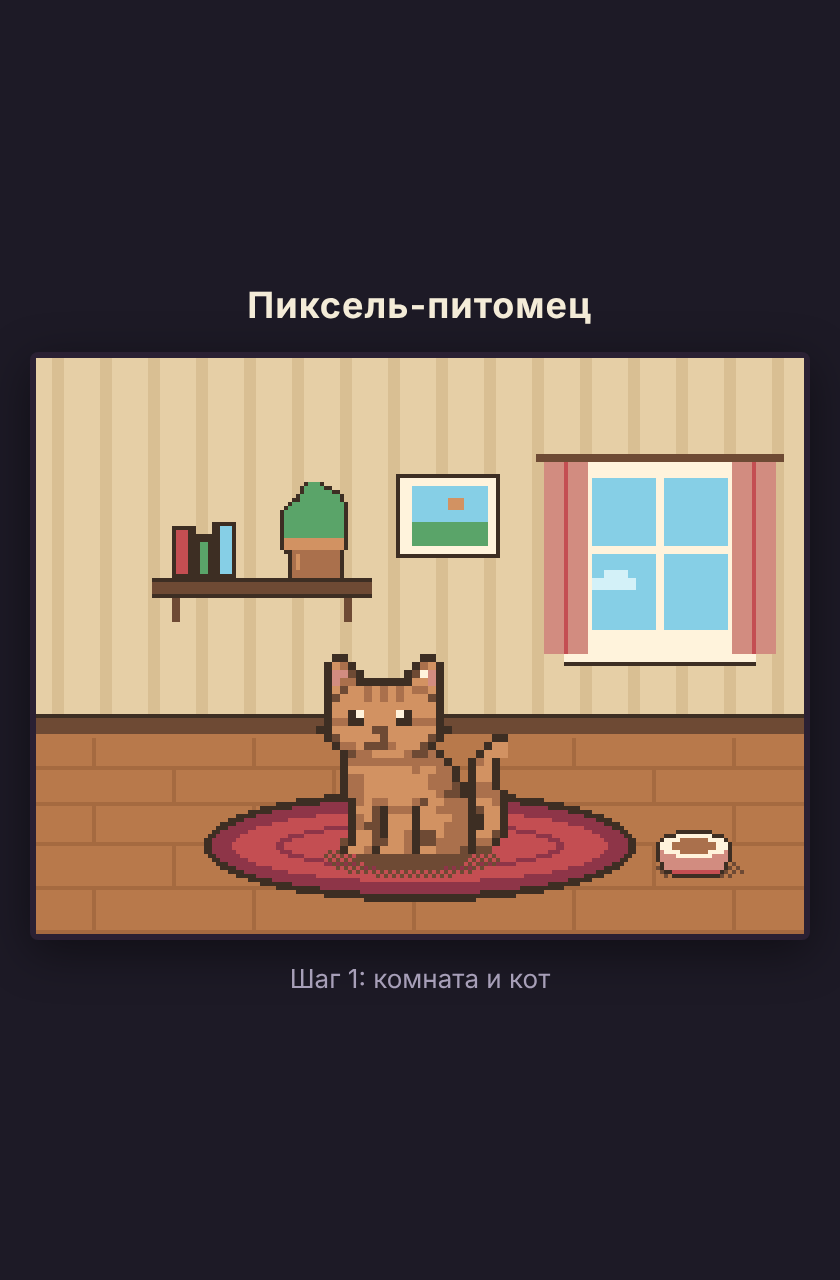
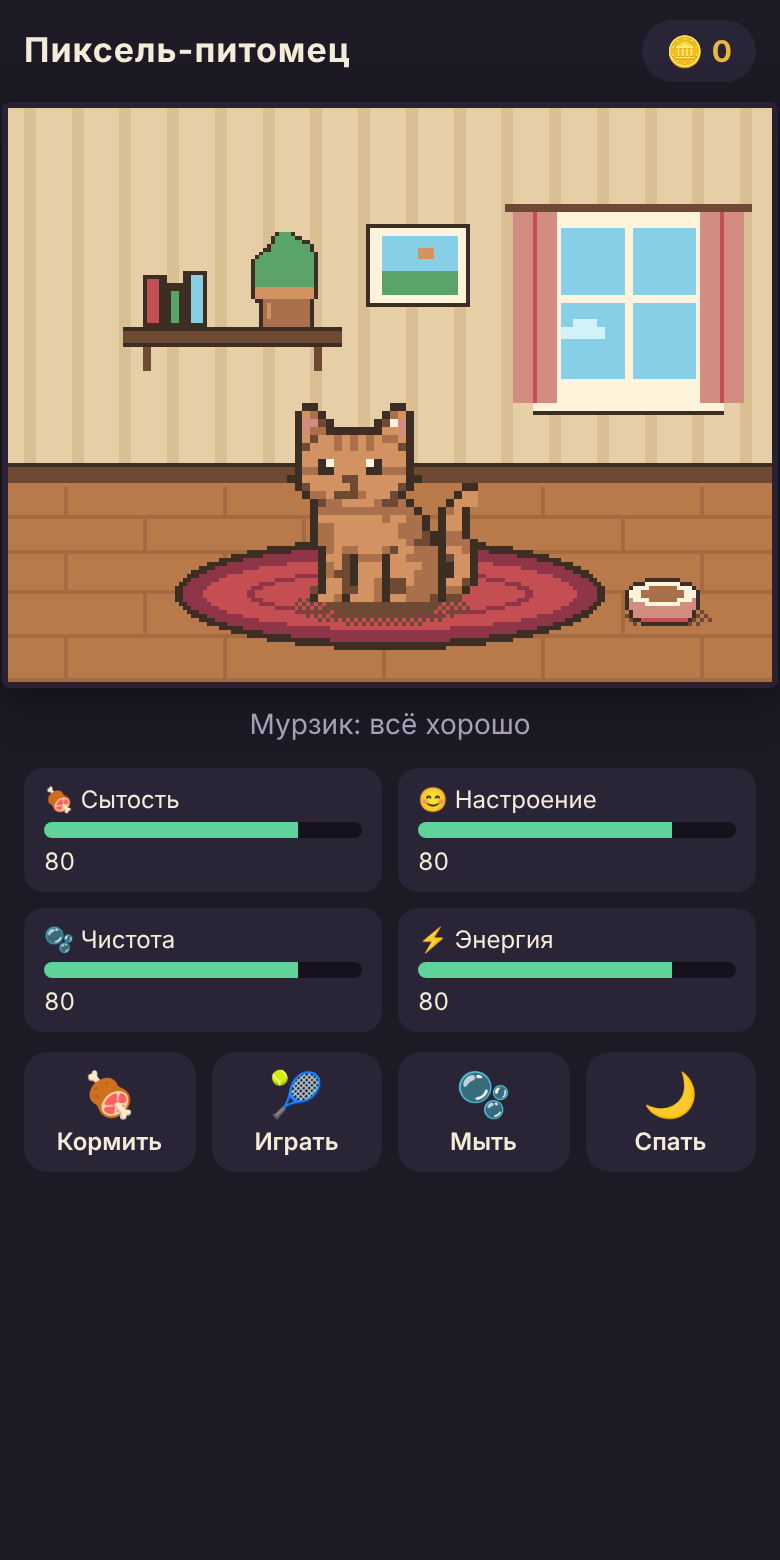
Пиксель-питомец: шаг 2 — потребности, действия, монеты, грусть, сон, сохранение
Claude-Session: https://claude.ai/code/session_01Qao8M8JoHe6UePoZCqr7mk

diff --git a/pixel-pet/js/pet.js b/pixel-pet/js/pet.js
@@ -1,20 +1,147 @@
-// Питомец. Шаг 1: только внешний вид и анимации (потребности — на шаге 2).
+// Питомец: данные (отдельным объектом — их потом можно хранить на сервере),
+// потребности, действия, анимации и эффекты.
 (function () {
+  const HOUR = 3600e3;
+  // изменение параметров в час
+  const AWAKE = { food: -8, mood: -6, clean: -4, energy: -5 };
+  const SLEEP = { food: -3, mood: -1, clean: -1, energy: 30 };
+  const MAX_AWAY = 24 * HOUR;                     // дольше суток вдали не считаем
+  const clamp = v => Math.max(0, Math.min(100, v));
+
+  function defaults(now) {
+    return { v: 1, type: 'cat', name: 'Мурзик', coins: 0, sleeping: false, sleepFrom: 0,
+             stats: { food: 80, mood: 80, clean: 80, energy: 80 }, savedAt: now };
+  }
+
   const Pet = {
-    type: 'cat', name: 'Мурзик',
-    x: 68, y: 74, // левый верхний угол спрайта 52×52; лапы на y+41
-    // Анимационные параметры по времени (мс)
+    data: null, events: [],
+    x: 68, y: 74,                                  // левый верхний угол спрайта
+    fx: { jumpAt: -1000, parts: [], fade: 0 },
+
+    // ---------- данные ----------
+    load(raw, now) {
+      const d = defaults(now);
+      try {
+        const o = typeof raw === 'string' ? JSON.parse(raw) : raw;
+        if (o && o.v === 1) {
+          ['food', 'mood', 'clean', 'energy'].forEach(k => {
+            if (o.stats && isFinite(o.stats[k])) d.stats[k] = clamp(+o.stats[k]);
+          });
+          if (isFinite(o.coins)) d.coins = Math.max(0, Math.floor(o.coins));
+          d.sleeping = !!o.sleeping; d.sleepFrom = isFinite(o.sleepFrom) ? +o.sleepFrom : d.stats.energy;
+          if (typeof o.name === 'string') d.name = o.name.slice(0, 20);
+          if (isFinite(o.savedAt)) d.savedAt = Math.min(+o.savedAt, now);
+        }
+      } catch (e) {}
+      this.data = d;
+      const away = Math.min(now - d.savedAt, MAX_AWAY);
+      if (away > 60e3) this.advance(away, true);  // время, пока приложение было закрыто
+      d.savedAt = now;
+      return this;
+    },
+    serialize(now) { this.data.savedAt = now; return JSON.stringify(this.data); },
+
+    // ---------- время ----------
+    advance(ms, offline) {
+      const d = this.data, s = d.stats;
+      let h = ms / HOUR;
+      const apply = (rate, t) => { for (const k in rate) s[k] = clamp(s[k] + rate[k] * t); };
+      if (d.sleeping) {
+        const need = (100 - s.energy) / SLEEP.energy, t = Math.min(h, need);
+        apply(SLEEP, t); h -= t;
+        if (s.energy >= 99.99) this.wake(offline ? 'Пока тебя не было, ' + d.name + ' выспался' : 'Выспался');
+      }
+      if (!d.sleeping && h > 0) apply(AWAKE, h);
+    },
+    wake(msg) {
+      const d = this.data, gain = Math.floor((d.stats.energy - d.sleepFrom) / 10);
+      d.sleeping = false; d.coins += gain;
+      this.events.push({ msg: (msg || 'Проснулся') + (gain > 0 ? ' · +' + gain + ' 🪙' : ''), kind: 'ok' });
+    },
+
+    // ---------- состояние ----------
+    sad() { const s = this.data.stats; return !this.data.sleeping && (s.food < 25 || s.mood < 25); },
+    status() {
+      const d = this.data, s = d.stats;
+      if (d.sleeping) return d.name + ' спит 💤';
+      if (s.food < 25) return d.name + ' голодный 😿';
+      if (s.mood < 25) return d.name + ' скучает 😿';
+      if (s.energy < 20) return d.name + ' устал';
+      if (s.clean < 25) return d.name + ' грязный';
+      return d.name + ': всё хорошо';
+    },
+
+    // ---------- действия ----------
+    act(name, now) {
+      const d = this.data, s = d.stats, T = performance.now();
+      const fail = msg => ({ ok: false, msg });
+      if (name === 'sleep') {
+        if (d.sleeping) { this.wake('Проснулся'); return { ok: true, msg: this.events.pop().msg }; }
+        if (s.energy >= 95) return fail(d.name + ' не хочет спать');
+        d.sleeping = true; d.sleepFrom = s.energy;
+        return { ok: true, msg: d.name + ' засыпает… 🌙' };
+      }
+      if (d.sleeping) return fail('Он спит. Нажми «Будить»');
+      let coins = 0, msg = '';
+      if (name === 'feed') {
+        if (s.food >= 95) return fail(d.name + ' сыт');
+        coins = 2; s.food = clamp(s.food + 30); s.clean = clamp(s.clean - 3); msg = 'Ням-ням! 🍖';
+        for (let i = 0; i < 6; i++) this.fx.parts.push({ type: 'crumb', x: 158 + Math.random() * 14, y: 100 + Math.random() * 6, vx: 0, vy: 0.04, t0: T + i * 70, life: 480 });
+      } else if (name === 'play') {
+        if (s.energy < 10) return fail('Он слишком устал. Пусть поспит');
+        coins = 3; s.mood = clamp(s.mood + 25); s.energy = clamp(s.energy - 12);
+        s.food = clamp(s.food - 6); s.clean = clamp(s.clean - 4); msg = 'Весёлая игра! 🎾';
+        this.fx.jumpAt = T;
+        for (let i = 0; i < 4; i++) this.fx.parts.push({ type: 'heart', x: this.x + 12 + i * 8, y: this.y + 2, vx: 0, vy: -0.02, t0: T + i * 180, life: 900 });
+      } else if (name === 'wash') {
+        if (s.clean >= 95) return fail(d.name + ' уже чистый');
+        coins = 2; s.clean = clamp(s.clean + 40); s.mood = clamp(s.mood - 2); msg = 'Чистый и пушистый! 🫧';
+        for (let i = 0; i < 9; i++) this.fx.parts.push({ type: 'bubble', x: this.x + 6 + Math.random() * 34, y: this.y + 20 + Math.random() * 26, vx: 0, vy: -0.015, t0: T + i * 90, life: 800 });
+      } else return fail('Неизвестное действие');
+      d.coins += coins;
+      return { ok: true, msg: msg + ' · +' + coins + ' 🪙' };
+    },
+
+    // ---------- анимации ----------
     anim(t) {
-      return {
-        breath: Math.floor(t / 1200) % 2 === 1,          // покачивание на 1 пиксель
-        blink: (t % 3600) > 3400,                        // моргание раз в ~3.6 с
-        tail: Math.round(Math.sin(t / 450) * 2)          // хвост: -2…2 пикселя
-      };
+      const d = this.data;
+      const breath = Math.floor(t / 1200) % 2;
+      const blink = (t % 3600) > 3400;
+      if (d.sleeping) return { head: 2 + breath, eyes: 'closed', tail: 0 };
+      if (this.sad()) return { head: 1 + breath, eyes: 'sad', tail: 0 };
+      return { head: breath, eyes: blink ? 'closed' : 'open', tail: Math.round(Math.sin(t / 450) * 2) };
     },
     draw(ctx, t) {
-      const a = this.anim(t);
-      window.Sprites.shadow(ctx, this.x + 26, this.y + 51, 22, 5);
-      ctx.drawImage(window.Sprites.cat(a), this.x, this.y);
+      const a = this.anim(t), f = this.fx, S = window.Sprites;
+      // прыжок при игре: два подскока
+      const jp = (t - f.jumpAt) / 900;
+      const hop = jp >= 0 && jp < 1 ? Math.round(Math.abs(Math.sin(jp * Math.PI * 2)) * 10) : 0;
+      S.shadow(ctx, this.x + 26, this.y + 51, 22 - hop * 0.6, 5 - hop * 0.2);
+      ctx.drawImage(S.cat(a), this.x, this.y - hop);
+    },
+    drawFx(ctx, t) {
+      const S = window.Sprites, f = this.fx;
+      f.parts = f.parts.filter(p => t - p.t0 < p.life);
+      f.parts.forEach(p => {
+        const age = t - p.t0; if (age < 0) return;
+        const x = Math.round(p.x + p.vx * age), y = Math.round(p.y + p.vy * age);
+        if (p.type === 'crumb') { ctx.fillStyle = S.PAL.orangeDark; ctx.fillRect(x, y, 2, 2); }
+        else ctx.drawImage(p.type === 'heart' ? S.heart() : S.bubble(), x, y);
+      });
+    },
+    // затемнение и Zzz для сна
+    drawSleep(ctx, t, W, H) {
+      const f = this.fx, target = this.data.sleeping ? 1 : 0;
+      f.fade += (target - f.fade) * 0.06;
+      if (f.fade < 0.01) return;
+      ctx.fillStyle = 'rgba(14,10,46,' + (0.5 * f.fade).toFixed(3) + ')';
+      ctx.fillRect(0, 0, W, H);
+      if (!this.data.sleeping) return;
+      const S = window.Sprites, ph = (t / 1400) % 1, bx = this.x + 36, by = this.y + 4;
+      [[0, 1], [0.33, 2], [0.66, 2]].forEach(([off, k], i) => {
+        const p = (ph + off) % 1;
+        S.zed(ctx, Math.round(bx + i * 6 + p * 6), Math.round(by - p * 22 - i * 2), k);
+      });
     }
   };
   window.Pet = Pet;

diff --git a/pixel-pet/js/main.js b/pixel-pet/js/main.js
@@ -1,31 +1,78 @@
 (function () {
-  const canvas = document.getElementById('scene');
-  const ctx = canvas.getContext('2d');
+  const $ = id => document.getElementById(id);
+  const canvas = $('scene'), ctx = canvas.getContext('2d');
   ctx.imageSmoothingEnabled = false;
+  const KEY = 'pixelpet.v1';
 
-  // Telegram: готовность, полный экран, цвета темы (если есть)
+  // ---------- Telegram ----------
+  let tg = null;
   try {
-    const tg = window.Telegram && window.Telegram.WebApp;
+    tg = window.Telegram && window.Telegram.WebApp;
     if (tg) {
       tg.ready(); tg.expand();
-      const p = tg.themeParams || {}, s = document.documentElement.style;
-      if (p.bg_color) s.setProperty('--bg', p.bg_color);
-      if (p.text_color) s.setProperty('--text', p.text_color);
-      if (p.hint_color) s.setProperty('--hint', p.hint_color);
+      const p = tg.themeParams || {}, st = document.documentElement.style;
+      if (p.bg_color) st.setProperty('--bg', p.bg_color);
+      if (p.text_color) st.setProperty('--text', p.text_color);
+      if (p.hint_color) st.setProperty('--hint', p.hint_color);
     }
-  } catch (e) {}
+  } catch (e) { tg = null; }
+  const haptic = kind => { try { tg && tg.HapticFeedback && (kind === 'light' ? tg.HapticFeedback.impactOccurred('light') : tg.HapticFeedback.notificationOccurred(kind)); } catch (e) {} };
 
-  // Целочисленный масштаб, чтобы пиксели были чёткими
+  // ---------- сохранение ----------
+  function save() { try { localStorage.setItem(KEY, Pet.serialize(Date.now())); } catch (e) {} }
+  let raw = null; try { raw = localStorage.getItem(KEY); } catch (e) {}
+  Pet.load(raw, Date.now());
+
+  // ---------- масштаб: целый, если места хватает ----------
   function fit() {
-    const k = Math.max(1, Math.floor(Math.min((innerWidth - 30) / Room.W, (innerHeight - 120) / Room.H)));
-    canvas.style.width = Room.W * k + 'px'; canvas.style.height = Room.H * k + 'px';
+    const availW = innerWidth - 8, availH = innerHeight - 330;
+    let k = Math.min(availW / Room.W, availH / Room.H);
+    k = k >= 2 ? Math.floor(k) : Math.max(1, k);
+    canvas.style.width = Math.round(Room.W * k) + 'px'; canvas.style.height = Math.round(Room.H * k) + 'px';
   }
   addEventListener('resize', fit); fit();
 
+  // ---------- интерфейс ----------
+  const bars = { food: $('b-food'), mood: $('b-mood'), clean: $('b-clean'), energy: $('b-energy') };
+  const vals = { food: $('v-food'), mood: $('v-mood'), clean: $('v-clean'), energy: $('v-energy') };
+  let toastT = 0;
+  function toast(msg, bad) {
+    const el = $('toast'); el.textContent = msg; el.className = 'toast show' + (bad ? ' bad' : '');
+    clearTimeout(toastT); toastT = setTimeout(() => { el.className = 'toast'; }, 2200);
+  }
+  function refresh() {
+    const d = Pet.data;
+    for (const k in bars) {
+      const v = Math.round(d.stats[k]);
+      bars[k].style.width = v + '%'; vals[k].textContent = v;
+      bars[k].parentNode.classList.toggle('low', v < 25);
+      vals[k].textContent = v + (v < 25 ? ' ▼' : '');
+    }
+    $('coins').textContent = d.coins;
+    $('status').textContent = Pet.status();
+    $('btn-sleep').querySelector('b').textContent = d.sleeping ? 'Будить' : 'Спать';
+  }
+  document.querySelectorAll('[data-act]').forEach(btn => btn.addEventListener('click', () => {
+    const r = Pet.act(btn.dataset.act, Date.now());
+    toast(r.msg, !r.ok); haptic(r.ok ? 'light' : 'error');
+    refresh(); save();
+  }));
+
+  // ---------- цикл ----------
+  let last = performance.now(), acc = 0, lastSave = 0;
   function frame(t) {
+    const dt = Math.min(t - last, 5000); last = t; acc += dt;
+    if (acc >= 1000) { Pet.advance(acc, false); acc = 0; refresh(); }
+    Pet.events.splice(0).forEach(e => { toast(e.msg, e.kind === 'bad'); haptic('success'); });
     Room.draw(ctx, t);
     Pet.draw(ctx, t);
+    Pet.drawFx(ctx, t);
+    Pet.drawSleep(ctx, t, Room.W, Room.H);
+    if (t - lastSave > 5000) { lastSave = t; save(); }
     requestAnimationFrame(frame);
   }
-  requestAnimationFrame(frame);
+  document.addEventListener('visibilitychange', () => { if (document.hidden) save(); });
+  addEventListener('pagehide', save);
+  Pet.events.splice(0).forEach(e => toast(e.msg));   // например «пока тебя не было…»
+  refresh(); requestAnimationFrame(frame);
 })();

diff --git a/pixel-pet/js/sprites.js b/pixel-pet/js/sprites.js
@@ -95,33 +95,56 @@
     '...dKooddoomKddmmmmKmmK.',
     '...KoomKooomKoommmdKdd..'
   ];
-  const CAT_COL = { K: 'ink', d: 'wood', m: 'orangeDark', o: 'orange', p: 'pink', w: 'cream' };
+  const CAT_COL = { K: 'ink', d: 'wood', m: 'orangeDark', o: 'orange', p: 'pink', w: 'cream', b: 'sky' };
   const CAT_SCALE = 2; // кот крупнее комнаты в целое число раз
   const CAT_W = 24, CAT_H = CAT.length;
   const catCache = {};
+  // o: { head: 0..3 (на сколько пикселей голова опущена), eyes: 'open'|'closed'|'sad', tail: -2..2 }
   function cat(o) {
-    const key = (o.breath ? 1 : 0) + '|' + (o.blink ? 1 : 0) + '|' + o.tail;
+    const key = o.head + '|' + o.eyes + '|' + o.tail;
     if (catCache[key]) return catCache[key];
     const g = CAT.map(r => r.split(''));
-    if (o.blink) { g[7][5] = g[7][4] = g[7][10] = g[7][11] = 'o'; }           // глаза закрыты: остаётся нижняя чёрточка
-    const sway = Math.round(o.tail / 2);                                      // хвост: кончик сдвигается на ±1
+    if (o.eyes !== 'open') { g[7][4] = g[7][5] = g[7][10] = g[7][11] = 'o'; }  // веки: остаётся нижняя чёрточка
+    if (o.eyes === 'sad') { g[9][4] = 'b'; g[9][11] = 'b'; }                    // слёзки
+    const sway = Math.round(o.tail / 2);                                        // хвост: кончик ±1
     if (sway) for (let r = 10; r <= 12; r++) {
       const row = g[r].slice(19);
       for (let c = 19; c < CAT_W; c++) g[r][c] = '.';
       row.forEach((v, i) => { const x = 19 + i + sway; if (v !== '.' && x < CAT_W) g[r][x] = v; });
     }
-    if (o.breath) for (let c = 0; c < 18; c++) {                              // дыхание: голова на 1 пиксель вниз
-      for (let r = 10; r >= 1; r--) g[r][c] = g[r - 1][c];
-      g[0][c] = '.';
+    const d = o.head;
+    if (d) for (let c = 0; c < 18; c++) {                                       // голова вниз на d пикселей
+      for (let r = 9; r >= 0; r--) g[r + d][c] = g[r][c];
+      for (let r = 0; r < d; r++) g[r][c] = '.';
     }
     const B = new Buf(CAT_W + 2, CAT_H + 1);
     for (let y = 0; y < CAT_H; y++) for (let x = 0; x < CAT_W; x++)
       if (g[y][x] !== '.') B.set(x + 1, y, CAT_COL[g[y][x]]);
-    const src = B.toCanvas(), K = CAT_SCALE, cv = document.createElement('canvas');
-    cv.width = src.width * K; cv.height = src.height * K;
+    const src = B.toCanvas(), cv = document.createElement('canvas');
+    cv.width = src.width * CAT_SCALE; cv.height = src.height * CAT_SCALE;
     const g2 = cv.getContext('2d'); g2.imageSmoothingEnabled = false;
     g2.drawImage(src, 0, 0, cv.width, cv.height);
     return (catCache[key] = cv);
+  }
+
+  // ---- Эффекты: сердечко, пузырь, буква Z ----
+  let heartC, bubbleC;
+  function heart() {
+    if (heartC) return heartC;
+    const B = new Buf(9, 8);
+    ['.##.##.', '#######', '#######', '.#####.', '..###..', '...#...'].forEach((row, y) =>
+      row.split('').forEach((ch, x) => { if (ch === '#') B.set(x + 1, y + 1, 'pink'); }));
+    B.outline('ink'); return (heartC = B.toCanvas());
+  }
+  function bubble() {
+    if (bubbleC) return bubbleC;
+    const B = new Buf(8, 8); B.ellipse(4, 4, 2.5, 2.5, 'skyLight'); B.outline('sky');
+    return (bubbleC = B.toCanvas());
+  }
+  function zed(ctx, x, y, k, color) {
+    ctx.fillStyle = PAL[color || 'cream'];
+    ['####', '..#.', '.#..', '#...', '####'].forEach((row, j) =>
+      row.split('').forEach((ch, i) => { if (ch === '#') ctx.fillRect(x + i * k, y + j * k, k, k); }));
   }
 
   // ---- Предметы комнаты ----
@@ -141,5 +164,5 @@
     B.outline('ink'); return (bowlC = B.toCanvas());
   }
 
-  window.Sprites = { PAL, Buf, fillEllipse, shadow, cat, plant, bowl };
+  window.Sprites = { PAL, Buf, fillEllipse, shadow, cat, plant, bowl, heart, bubble, zed };
 })();

diff --git a/pixel-pet/style.css b/pixel-pet/style.css
@@ -1,8 +1,26 @@
-:root{--bg:#1d1a26;--text:#f4ecd8;--hint:#a79fb8}
-*{box-sizing:border-box}
-html,body{margin:0;height:100%;background:var(--bg);color:var(--text);font-family:system-ui,-apple-system,"Segoe UI",Roboto,sans-serif}
-.app{min-height:100%;display:flex;flex-direction:column;align-items:center;justify-content:center;gap:12px;padding:12px}
-h1{margin:0;font-size:18px;font-weight:700;letter-spacing:.5px}
+:root{--bg:#1d1a26;--text:#f4ecd8;--hint:#a79fb8;--card:#2a2536;--gold:#e8b93c;--ok:#5fd39a;--warn:#f07167}
+*{box-sizing:border-box;-webkit-tap-highlight-color:transparent}
+html,body{margin:0;min-height:100%;background:var(--bg);color:var(--text);font-family:system-ui,-apple-system,"Segoe UI",Roboto,sans-serif}
+.app{max-width:520px;margin:0 auto;display:flex;flex-direction:column;align-items:center;gap:10px;padding:10px 6px 24px}
+.top{width:100%;display:flex;align-items:center;justify-content:space-between;padding:0 6px}
+h1{margin:0;font-size:17px;letter-spacing:.5px}
+.coins{background:var(--card);border-radius:999px;padding:6px 12px;font-size:15px}
+.coins b{color:var(--gold)}
 .stage{line-height:0;border:3px solid #2a2033;border-radius:4px;box-shadow:0 6px 24px rgba(0,0,0,.45)}
 canvas{image-rendering:pixelated;image-rendering:crisp-edges;display:block}
-.hint{margin:0;font-size:13px;color:var(--hint)}
+.status{margin:0;font-size:14px;color:var(--hint);min-height:20px}
+.stats{width:100%;display:grid;grid-template-columns:1fr 1fr;gap:8px;padding:0 6px}
+.stat{background:var(--card);border-radius:10px;padding:8px 10px;display:grid;grid-template-columns:1fr auto;gap:4px 6px;font-size:12px}
+.stat .bar{grid-column:1/3;height:8px;background:#15121d;border-radius:4px;overflow:hidden}
+.stat .bar i{display:block;height:100%;width:0;background:var(--ok);transition:width .4s}
+.stat.low .bar i{background:var(--warn)}
+.stat.low .val{color:var(--warn)}
+.val{font-variant-numeric:tabular-nums}
+.actions{width:100%;display:grid;grid-template-columns:repeat(4,1fr);gap:8px;padding:0 6px}
+.actions button{min-height:60px;background:var(--card);color:var(--text);border:0;border-radius:12px;display:flex;flex-direction:column;align-items:center;justify-content:center;gap:2px;font:inherit;cursor:pointer}
+.actions button span{font-size:22px}
+.actions button b{font-size:12px;font-weight:600}
+.actions button:active{transform:scale(.96);background:#35304a}
+.toast{position:fixed;left:50%;bottom:18px;transform:translate(-50%,20px);background:#000c;color:#fff;padding:10px 16px;border-radius:12px;font-size:14px;opacity:0;pointer-events:none;transition:.25s;max-width:90%;text-align:center}
+.toast.show{opacity:1;transform:translate(-50%,0)}
+.toast.bad{background:#7a2a2a}

diff --git a/pixel-pet/index.html b/pixel-pet/index.html
@@ -9,9 +9,22 @@
 </head>
 <body>
   <main class="app">
-    <h1>Пиксель-питомец</h1>
+    <header class="top"><h1>Пиксель-питомец</h1><div class="coins" title="Монеты">🪙 <b id="coins">0</b></div></header>
     <div class="stage"><canvas id="scene" width="192" height="144"></canvas></div>
-    <p class="hint">Шаг 1: комната и кот</p>
+    <p class="status" id="status"></p>
+    <div class="stats">
+      <div class="stat"><span class="lab">🍖 Сытость</span><div class="bar"><i id="b-food"></i></div><span class="val" id="v-food"></span></div>
+      <div class="stat"><span class="lab">😊 Настроение</span><div class="bar"><i id="b-mood"></i></div><span class="val" id="v-mood"></span></div>
+      <div class="stat"><span class="lab">🫧 Чистота</span><div class="bar"><i id="b-clean"></i></div><span class="val" id="v-clean"></span></div>
+      <div class="stat"><span class="lab">⚡ Энергия</span><div class="bar"><i id="b-energy"></i></div><span class="val" id="v-energy"></span></div>
+    </div>
+    <div class="actions">
+      <button data-act="feed"><span>🍖</span><b>Кормить</b></button>
+      <button data-act="play"><span>🎾</span><b>Играть</b></button>
+      <button data-act="wash"><span>🫧</span><b>Мыть</b></button>
+      <button data-act="sleep" id="btn-sleep"><span>🌙</span><b>Спать</b></button>
+    </div>
+    <div class="toast" id="toast"></div>
   </main>
   <script src="js/sprites.js"></script>
   <script src="js/room.js"></script>
